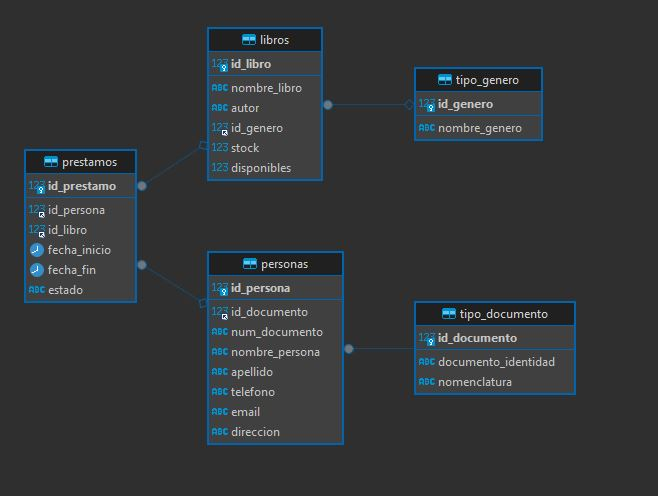
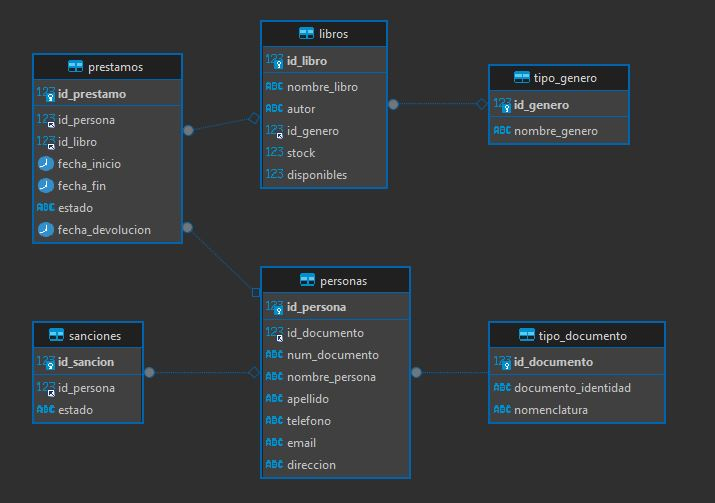
Se inicia con la gestion de sanciones

diff --git a/Biblioteca/src/main/java/com/co/biblioteca/model/PrestamosDao.java b/Biblioteca/src/main/java/com/co/biblioteca/model/PrestamosDao.java
@@ -6,6 +6,8 @@ import java.sql.Connection;
 import java.sql.PreparedStatement;
 import java.sql.ResultSet;
 import java.sql.SQLException;
+import java.util.ArrayList;
+import java.util.List;
 
 /**
  * Clase que contiene todos los metodos para realizar las transacciones de prestamos en la BD del sistema
@@ -14,9 +16,10 @@ import java.sql.SQLException;
  */
 public class PrestamosDao {
     
-    private static final String insertPrestamo = "INSERT INTO prestamos (id_persona, id_libro, fecha_inicio, estado) VALUES (?, ?, STR_TO_DATE(?, '%d-%m-%Y'), ?)";
+    private static final String insertPrestamo = "INSERT INTO prestamos (id_persona, id_libro, fecha_inicio, fecha_fin, estado) VALUES (?, ?, STR_TO_DATE(?, '%d-%m-%Y'), STR_TO_DATE(?, '%d-%m-%Y'), ?)";
     private static final String findPrestamo = "SELECT * FROM prestamos WHERE id_persona = ? AND id_libro = ? AND estado = ?";
-    private static final String updateLibro = "UPDATE prestamos SET fecha_fin = STR_TO_DATE(?, '%d-%m-%Y'), estado = ? WHERE id_prestamo = ?";
+    private static final String updateLibro = "UPDATE prestamos SET fecha_devolucion = STR_TO_DATE(?, '%d-%m-%Y'), estado = ? WHERE id_prestamo = ?";
+    private static final String findAll = "SELECT * FROM prestamos WHERE estado = ?";
     
     /**
      * Metodo encargado de insertar un nuevo prestamo en la BD
@@ -34,6 +37,7 @@ public class PrestamosDao {
             preparedStm.setInt(index++, prestamo.getIdPersona());
             preparedStm.setInt(index++, prestamo.getIdLibro());
             preparedStm.setString(index++, prestamo.getFechaInicio());
+            preparedStm.setString(index++, prestamo.getFechaFin());
             preparedStm.setString(index++, prestamo.getEstado());
             preparedStm.executeUpdate();
 	} finally {
@@ -90,12 +94,47 @@ public class PrestamosDao {
         try {
             conn = Conexion.conectarBD();
             preparedStm = conn.prepareStatement(updateLibro);
-            preparedStm.setString(index++, prestamo.getFechaFin());
+            preparedStm.setString(index++, prestamo.getFechaDevolucion());
             preparedStm.setString(index++, prestamo.getEstado());
             preparedStm.setInt(index++, prestamo.getIdPrestamo());
             preparedStm.executeUpdate();
         } finally {
             Conexion.closeConnection(preparedStm, conn);
         }
+    }
+    
+    /**
+     * Metodo encargado de consultar la lista de prestamos activos en BD
+     * @return
+     * @throws SQLException 
+     */
+    public List<PrestamoDTO> findAll() throws SQLException {
+        List<PrestamoDTO> listPrestamos = new ArrayList<>();
+        Connection conn = null;
+        ResultSet resultado = null;
+        PreparedStatement preparedStm = null;
+        int index = 1;
+        
+        try {
+            conn = Conexion.conectarBD();
+            preparedStm = conn.prepareStatement(findAll);
+            preparedStm.setString(index++, "Activo");
+            resultado = preparedStm.executeQuery();
+            
+            while(resultado.next()) {
+                PrestamoDTO prestamoBD = null;
+                prestamoBD = new PrestamoDTO();
+                prestamoBD.setIdPrestamo(resultado.getInt("id_prestamo"));
+                prestamoBD.setIdPersona(resultado.getInt("id_persona"));
+                prestamoBD.setIdLibro(resultado.getInt("id_libro"));
+                prestamoBD.setFechaInicio(resultado.getString("fecha_inicio"));
+                prestamoBD.setFechaFin(resultado.getString("fecha_fin"));
+                prestamoBD.setEstado(resultado.getString("estado"));
+                listPrestamos.add(prestamoBD);
+            }
+        } finally {
+            Conexion.closeConnection(resultado, preparedStm, conn);
+        }
+        return listPrestamos;
     }
 }

diff --git a/Biblioteca/src/main/java/com/co/biblioteca/model/SancionesDao.java b/Biblioteca/src/main/java/com/co/biblioteca/model/SancionesDao.java
@@ -1,0 +1,72 @@
+package com.co.biblioteca.model;
+
+import com.co.biblioteca.db.Conexion;
+import com.co.biblioteca.dto.SancionDTO;
+import java.sql.Connection;
+import java.sql.PreparedStatement;
+import java.sql.ResultSet;
+import java.sql.SQLException;
+
+/**
+ * Clase que contiene todos los metodos para realizar las transacciones de sanciones en la BD del sistema
+ * @author Juan Jose Cardona Henao
+ * @version 1.0
+ */
+public class SancionesDao {
+    
+    private static final String insertSancion = "INSERT INTO sanciones (id_persona, estado) VALUES (?, ?)";
+    private static final String findSancion = "SELECT s.id_sancion, s.id_persona, s.estado FROM sanciones s INNER JOIN personas p ON s.id_persona = p.id_persona WHERE p.num_documento = ? AND s.estado = ?";
+    
+    /**
+     * Metodo encargado de insertar una nueva sancion en la BD
+     * @param sancion
+     * @throws SQLException 
+     */
+    public void insertSancion(SancionDTO sancion) throws SQLException {
+        Connection conn = null;
+        PreparedStatement preparedStm = null;
+        int index = 1;
+        
+        try {
+            conn = Conexion.conectarBD();
+            preparedStm = conn.prepareStatement(insertSancion);
+            preparedStm.setInt(index++, sancion.getIdPersona());
+            preparedStm.setString(index++, sancion.getEstado());
+            preparedStm.executeUpdate();
+        } finally {
+            Conexion.closeConnection(preparedStm, conn);
+        }
+    }
+    
+    /**
+     * Metodo encargado de validar si un usuario esta sancionado
+     * @param numDocumento
+     * @return
+     * @throws SQLException 
+     */
+    public SancionDTO findSancion(String numDocumento) throws SQLException {
+        SancionDTO sancionDto = null;
+        Connection conn = null;
+        ResultSet resultado = null;
+        PreparedStatement preparedStm = null;
+        int index = 1;
+        
+        try {
+            conn = Conexion.conectarBD();
+            preparedStm = conn.prepareStatement(findSancion);
+            preparedStm.setString(index++, numDocumento);
+            preparedStm.setString(index++, "Activo");
+            resultado = preparedStm.executeQuery();
+            
+            if(resultado.next()) {
+                sancionDto = new SancionDTO();
+            	sancionDto.setIdSancion(resultado.getInt("id_sancion"));
+                sancionDto.setIdPersona(resultado.getInt("id_persona"));
+                sancionDto.setEstado(resultado.getString("estado"));
+            }
+        } finally {
+            Conexion.closeConnection(resultado, preparedStm, conn);
+        }
+        return sancionDto;
+    }
+}

diff --git a/Biblioteca/src/main/java/com/co/biblioteca/controller/PrestamosManager.java b/Biblioteca/src/main/java/com/co/biblioteca/controller/PrestamosManager.java
@@ -5,6 +5,7 @@ import com.co.biblioteca.dto.PrestamoDTO;
 import com.co.biblioteca.dto.UsuarioDTO;
 import com.co.biblioteca.model.LibrosDao;
 import com.co.biblioteca.model.PrestamosDao;
+import com.co.biblioteca.model.SancionesDao;
 import com.co.biblioteca.model.UsuariosDao;
 import java.text.ParseException;
 import java.text.SimpleDateFormat;
@@ -28,6 +29,7 @@ public class PrestamosManager {
     LibrosDao libroDao = new LibrosDao();
     UsuariosDao usuarioDao = new UsuariosDao();
     PrestamosDao prestamoDao = new PrestamosDao();
+    SancionesDao sancionDao = new SancionesDao();
     
     /**
      * Metodo encargado de validar los campos del formulario
@@ -41,8 +43,13 @@ public class PrestamosManager {
                 JOptionPane.showMessageDialog(null, "Debe llenar todos los campos", "AVISO", JOptionPane.INFORMATION_MESSAGE);
                 return false;
             } else {
-                if(usuarioDao.findUsuario(usuario) == null) {
+                if(!usuarioDao.validateUsuario(usuario)) {
                     JOptionPane.showMessageDialog(null, "No se encontró un usuario en el sistema asociado al documento " + usuario, "AVISO", JOptionPane.INFORMATION_MESSAGE);
+                    return false;
+                }
+                
+                if(sancionDao.findSancion(usuario) != null) {
+                    JOptionPane.showMessageDialog(null, "El usuario  " + usuario + " se encuentra sancionado, por lo tanto no puede realizar prestamos", "AVISO", JOptionPane.INFORMATION_MESSAGE);
                     return false;
                 }
                 
@@ -79,6 +86,7 @@ public class PrestamosManager {
                 prestamo.setIdPersona(usuarioDto.getIdUsuario());
                 prestamo.setIdLibro(Integer.parseInt(libro));
                 prestamo.setFechaInicio(getFechaActual());
+                prestamo.setFechaFin(getFechaVencimiento(prestamo.getFechaInicio()));
                 prestamo.setEstado("Activo");
                 prestamoDao.insertPrestamo(prestamo);
                 

diff --git a/Biblioteca/src/main/java/com/co/biblioteca/controller/SancionesManager.java b/Biblioteca/src/main/java/com/co/biblioteca/controller/SancionesManager.java
@@ -1,0 +1,49 @@
+package com.co.biblioteca.controller;
+
+import com.co.biblioteca.dto.PrestamoDTO;
+import com.co.biblioteca.dto.SancionDTO;
+import com.co.biblioteca.model.PrestamosDao;
+import com.co.biblioteca.model.SancionesDao;
+import java.text.SimpleDateFormat;
+import java.util.ArrayList;
+import java.util.Date;
+import java.util.List;
+import javax.swing.JOptionPane;
+
+/**
+ * Clase que contiene la logica de negocio necesaria para gestionar las sanciones
+ * @author Juan Jose Cardona Henao
+ * @version 1.0
+ */
+public class SancionesManager {
+    
+    PrestamosDao prestamoDao = new PrestamosDao();
+    SancionesDao sancionesDao = new SancionesDao();
+    
+    public void sancionar() {
+        try {
+            List<PrestamoDTO> listPrestamos = new ArrayList<>();
+            listPrestamos = prestamoDao.findAll();
+        
+            for(PrestamoDTO prestamo : listPrestamos) {
+                if(calculo(prestamo.getFechaFin()) > 0) {
+                    SancionDTO sancionDto = new SancionDTO();
+                    sancionDto.setIdPersona(prestamo.getIdPersona());
+                    sancionDto.setEstado("Activo");
+                    sancionesDao.insertSancion(sancionDto);
+                }
+            }
+        } catch (Exception ex) {
+            System.out.print(ex.getMessage());
+            JOptionPane.showMessageDialog(null, "Ocurrio un error inesperado en el sistema", "ERROR", JOptionPane.ERROR_MESSAGE);
+        }
+    }
+    
+    private int calculo(String fecha) throws Exception {
+        Date fechaActual = new Date();
+        SimpleDateFormat formato = new SimpleDateFormat("dd-MM-yyyy");
+        Date fechaFin = formato.parse(fecha);
+        
+        return fechaActual.compareTo(fechaFin);
+    }
+}

diff --git a/Biblioteca/src/main/java/com/co/biblioteca/controller/DevolucionesManager.java b/Biblioteca/src/main/java/com/co/biblioteca/controller/DevolucionesManager.java
@@ -33,11 +33,6 @@ public class DevolucionesManager {
                 JOptionPane.showMessageDialog(null, "Debe llenar todos los campos", "AVISO", JOptionPane.INFORMATION_MESSAGE);
                 return false;
             } else {
-                if(usuarioDao.findUsuario(usuario) == null) {
-                    JOptionPane.showMessageDialog(null, "No se encontró un prestamo asociado los datos ingresados", "AVISO", JOptionPane.INFORMATION_MESSAGE);
-                    return false;
-                }
-                
                 UsuarioDTO usuarioDto = usuarioDao.findUsuario(usuario);
                 PrestamoDTO prestamo = new PrestamoDTO();
                 prestamo.setIdPersona(usuarioDto.getIdUsuario());
@@ -72,7 +67,7 @@ public class DevolucionesManager {
                 prestamo.setIdLibro(Integer.parseInt(libro));
                 prestamo = prestamoDao.findPrestamo(prestamo);
                 
-                prestamo.setFechaFin(getFechaActual());
+                prestamo.setFechaDevolucion(getFechaActual());
                 prestamo.setEstado("Devuelto");
                 prestamoDao.updatePrestamo(prestamo);
                 

diff --git a/Biblioteca/src/main/java/com/co/biblioteca/model/UsuariosDao.java b/Biblioteca/src/main/java/com/co/biblioteca/model/UsuariosDao.java
@@ -23,7 +23,6 @@ public class UsuariosDao {
     private static final String findUsuario = "SELECT id_persona, id_documento, num_documento, nombre_persona, apellido, telefono, email, direccion FROM personas WHERE num_documento = ?";
     private static final String updateUsuario = "UPDATE personas SET id_documento = ?, num_documento = ?, nombre_persona = ?, apellido = ?, telefono = ?, email = ?, direccion = ? WHERE id_persona = ?";
     
-    
     /**
      * Metodo encargado de insertar un nuevo usuario en la BD
      * @param usuario
@@ -205,7 +204,6 @@ public class UsuariosDao {
     
     /**
      * Metodo encargado de validar si un usuario ya existe en la BD
-     * @param idDocumento
      * @param numDocumento
      * @return
      * @throws SQLException 

diff --git a/Biblioteca/src/main/java/com/co/biblioteca/dto/SancionDTO.java b/Biblioteca/src/main/java/com/co/biblioteca/dto/SancionDTO.java
@@ -1,0 +1,32 @@
+package com.co.biblioteca.dto;
+
+public class SancionDTO {
+    
+    private int idSancion;
+    private int idPersona;
+    private String estado;
+
+    public int getIdSancion() {
+        return idSancion;
+    }
+
+    public void setIdSancion(int idSancion) {
+        this.idSancion = idSancion;
+    }
+
+    public int getIdPersona() {
+        return idPersona;
+    }
+
+    public void setIdPersona(int idPersona) {
+        this.idPersona = idPersona;
+    }
+
+    public String getEstado() {
+        return estado;
+    }
+
+    public void setEstado(String estado) {
+        this.estado = estado;
+    }
+}

diff --git a/Biblioteca/src/main/java/com/co/biblioteca/dto/PrestamoDTO.java b/Biblioteca/src/main/java/com/co/biblioteca/dto/PrestamoDTO.java
@@ -11,6 +11,7 @@ public class PrestamoDTO {
     private String nombreLibro;
     private String nombrePersona;
     private String documentoPersona;
+    private String fechaDevolucion;
 
     public int getIdPrestamo() {
         return idPrestamo;
@@ -82,5 +83,13 @@ public class PrestamoDTO {
 
     public void setDocumentoPersona(String documentoPersona) {
         this.documentoPersona = documentoPersona;
+    }
+    
+    public String getFechaDevolucion() {
+        return fechaDevolucion;
+    }
+
+    public void setFechaDevolucion(String fechaDevolucion) {
+        this.fechaDevolucion = fechaDevolucion;
     }
 }

diff --git a/Biblioteca/src/main/java/com/co/biblioteca/controller/UsuariosManager.java b/Biblioteca/src/main/java/com/co/biblioteca/controller/UsuariosManager.java
@@ -24,7 +24,7 @@ public class UsuariosManager {
         boolean isValid = true;
         
         if(usuario.getIdTipoDocumento() == 0 || usuario.getNumDocumento().isEmpty() || usuario.getNombre().isEmpty() ||
-                usuario.getApellido().isEmpty() || usuario.getTelefono().isEmpty()) {
+                usuario.getApellido().isEmpty() || usuario.getTelefono().isEmpty() || usuario.getEmail().isEmpty()) {
             isValid = false;
         }
         return isValid;

diff --git a/README.md b/README.md
@@ -1,9 +1,12 @@
-MyLib - Este proyecto trata de un software de escritorio para gestionar una biblioteca (libros, usuarios, prestamos, devoluciones, sanciones, reportes, etc...).
+Sistema de gestion de bibliotecas MyLib <br><br>
+
+Este proyecto trata de un software de escritorio para gestionar una biblioteca; permite registrar, consultar, editar y eliminar libros y usuarios,
+realizar prestamos, notificaciones y devoluciones, registrar sanciones por incumplimiento y ver reportes detallados. <br>
 El proyecto está desarrollado en Java 17, utiliza Java Swing para la interfaz grafica y librerías de FlatLaf para el diseño. Se utiliza JDBC para la
 conexión con la base de datos, la cual se encuentra modelada en MySQL. La arquitectura es monolitica y basada en el patrón de diseño MVC.
-El IDE utilizado para la creación del proyecto fue NetBeans
+El IDE utilizado para la creación del proyecto fue NetBeans. <br><br>
 
-Backend: Java
-Frontend: Java Swing - Look and Feel (FlatLaf)
-Database: MySQL
+Backend: Java <br>
+Frontend: Java Swing - Look and Feel (FlatLaf) <br>
+Database: MySQL <br>
 Architecture: MVC
